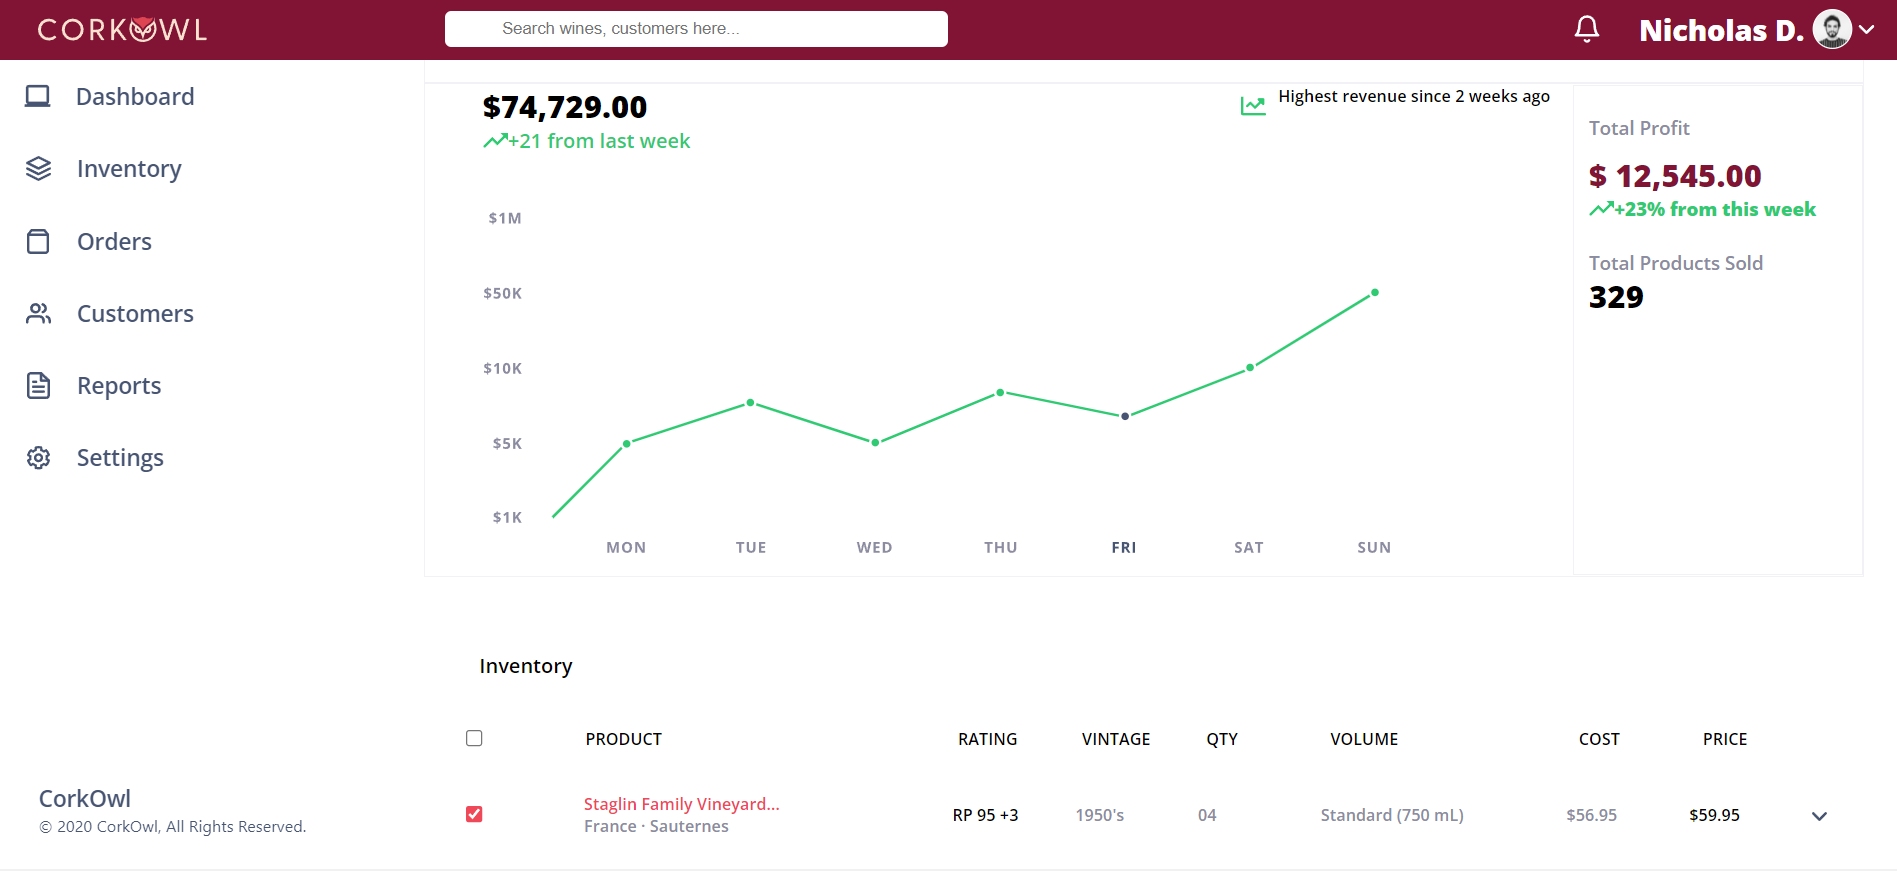
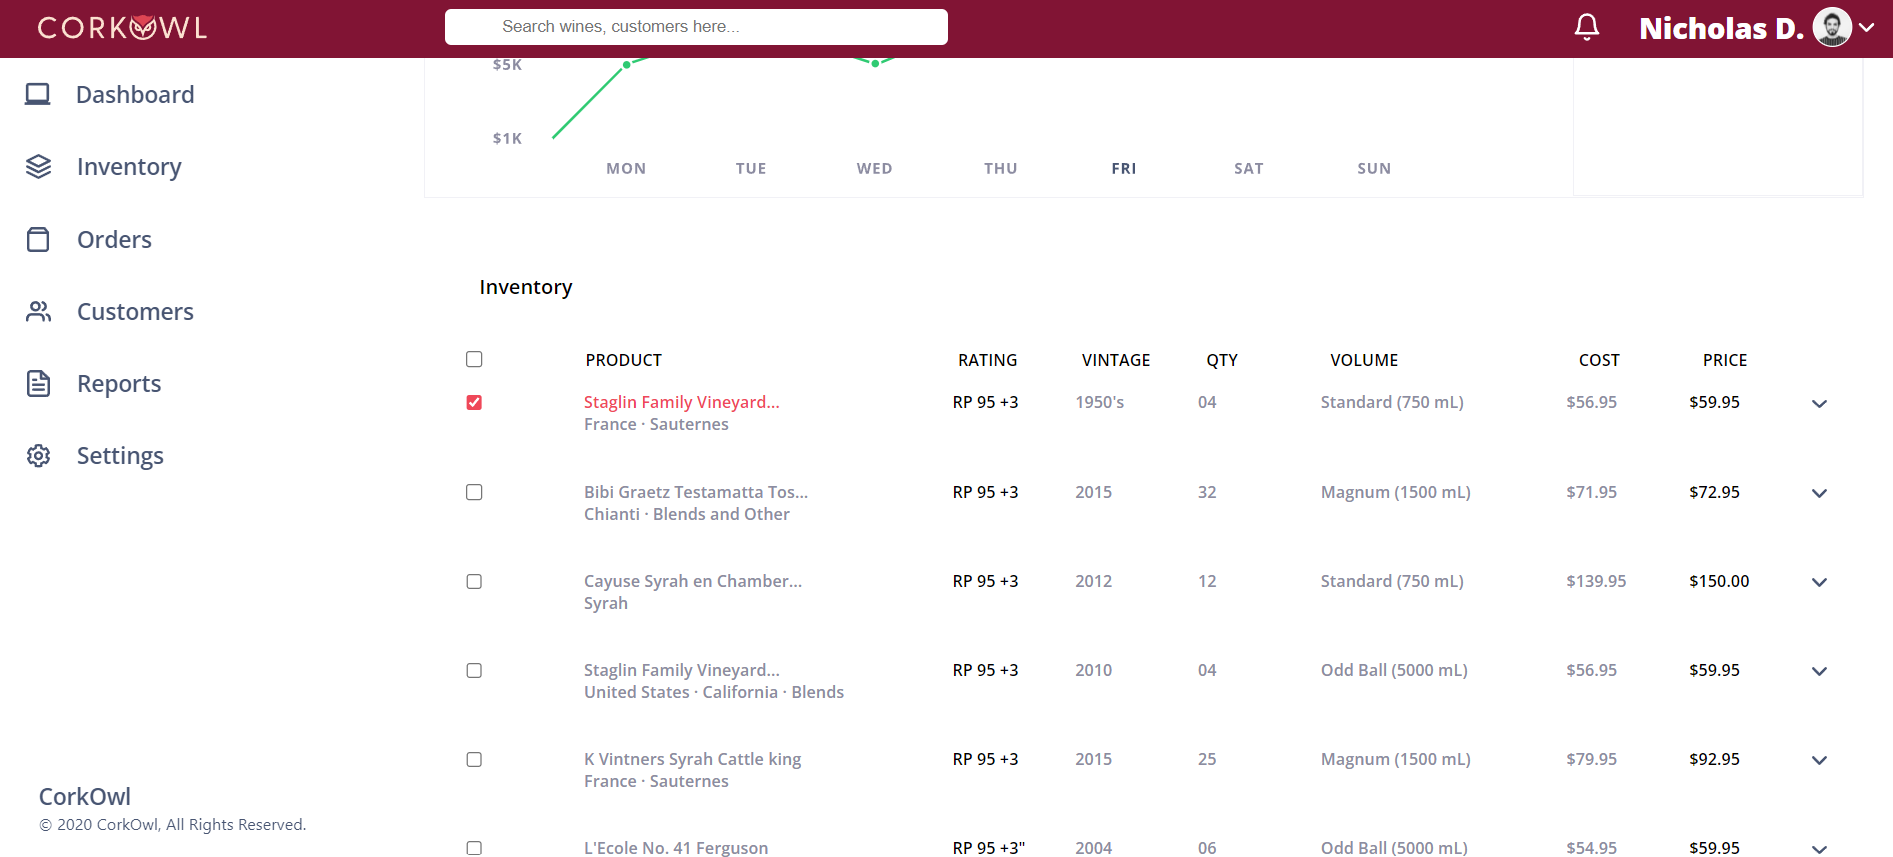
user data checkbox and expand updated

diff --git a/src/components/Home/Datamap.jsx b/src/components/Home/Datamap.jsx
@@ -1,41 +1,94 @@
-import React, { useState } from 'react'
-import "../Home/Home.scss"
+import React, { useState } from "react";
+import "../Home/Home.scss";
 
-import Data from "../Data"
-import downarrow from "../Assets/Svg/ddownarrow.svg"
+import Data from "../Data";
+import downarrow from "../Assets/Svg/ddownarrow.svg";
 
 const Datamap = () => {
+  const [expand1, setExpand1] = useState(null);
+  const [expand2, setExpand2] = useState(null);
+  const [expand3, setExpand3] = useState(null);
+  const [expand4, setExpand4] = useState(null);
+  const [expand5, setExpand5] = useState(null);
+  const [expand6, setExpand6] = useState(null);
+  const [expand7, setExpand7] = useState(null);
+  const [color1, setColor1] = useState(null);
+  const [color2, setColor2] = useState(null);
+  const [color3, setColor3] = useState(null);
+  const [color4, setColor4] = useState(null);
+  const [color5, setColor5] = useState(null);
+  const [color6, setColor6] = useState(null);
+  const [color7, setColor7] = useState(null);
 
-    const [expand, setExpand] = useState(null)
-    const [color, setColor] = useState(null)
+  const handleExpand1 = (el) => {
+    console.log(el);
+    setExpand1(!expand1);
+  };
+  const handleExpand2 = (el) => {
+    console.log(el);
+    setExpand2(!expand2);
+  };
+  const handleExpand3 = (el) => {
+    console.log(el);
+    setExpand3(!expand3);
+  };
+  const handleExpand4 = (el) => {
+    console.log(el);
+    setExpand4(!expand4);
+  };
+  const handleExpand5 = (el) => {
+    console.log(el);
+    setExpand5(!expand5);
+  };
+  const handleExpand6 = (el) => {
+    console.log(el);
+    setExpand6(!expand6);
+  };
+  const handleExpand7 = (el) => {
+    console.log(el);
+    setExpand7(!expand7);
+  };
 
-    const handleExpand = (el)=>{
-        console.log(el)
-        if(el.id === "1"){
-            setExpand(!expand)
-        }
-    }
-
-    const handleCheck = ()=>{
-        setColor(!color)
-    }
+  const handleCheck1 = () => {
+    setColor1(!color1);
+  };
+  const handleCheck2 = () => {
+    setColor2(!color2);
+  };
+  const handleCheck3 = () => {
+    setColor3(!color3);
+  };
+  const handleCheck4 = () => {
+    setColor4(!color4);
+  };
+  const handleCheck5 = () => {
+    setColor5(!color5);
+  };
+  const handleCheck6 = () => {
+    setColor6(!color6);
+  };
+  const handleCheck7 = () => {
+    setColor7(!color7);
+  };
 
   return (
-    <div className='data'>
-        <div className='inven'>Inventory</div>
-        <div className='table-map'>
-            <div className='title'>
-                <div><input type="checkbox" /></div>
-                <div>PRODUCT</div>
-                <div>RATING</div>
-                <div>VINTAGE</div>
-                <div>QTY</div>
-                <div>VOLUME</div>
-                <div>COST</div>
-                <div>PRICE</div>
-                <div></div>
-            </div>
-            {
+    <div className="data">
+      <div className="inven">Inventory</div>
+      <div className="table-map">
+        <div className="title">
+          <div>
+            <input type="checkbox" />
+          </div>
+          <div>PRODUCT</div>
+          <div>RATING</div>
+          <div>VINTAGE</div>
+          <div>QTY</div>
+          <div>VOLUME</div>
+          <div>COST</div>
+          <div>PRICE</div>
+          <div></div>
+        </div>
+        {/* {
                 Data.map((el)=>{
                     return(
                         <div className="title-data" style={{height : expand ? "30vh" : "10vh"}}>
@@ -56,10 +109,228 @@ const Datamap = () => {
                         </div>
                     )
                 })
-            }
-        </div>
-    </div>
-  )
-}
+            } */}
 
-export default Datamap
+        <div
+          className="title-data"
+          style={{ height: expand1 ? "30vh" : "10vh",}}
+        >
+          <div>
+            <input type="checkbox" onClick={handleCheck1} />
+          </div>
+          <div>
+            <div style={{ color: color1 ? "#EF4859" : "#8C8CA1" }}>
+              Staglin Family Vineyard...
+            </div>
+            <div>France · Sauternes </div>
+          </div>
+          <div>RP 95 +3</div>
+          <div>1950's</div>
+          <div>04</div>
+          <div>Standard (750 mL)</div>
+          <div>$56.95</div>
+          <div>$59.95</div>
+          <div>
+            <img
+              style={{ cursor: "pointer" }}
+              src={downarrow}
+              alt=""
+              onClick={handleExpand1}
+            />
+          </div>
+        </div>
+
+        <div
+          className="title-data"
+          style={{ height: expand2 ? "30vh" : "10vh" }}
+        >
+          <div>
+            <input type="checkbox" onClick={handleCheck2} />
+          </div>
+          <div>
+            <div style={{ color: color2 ? "#EF4859" : "#8C8CA1" }}>
+            Bibi Graetz Testamatta Tos...
+            </div>
+            <div>Chianti · Blends and Other</div>
+          </div>
+          <div>RP 95 +3</div>
+          <div>2015</div>
+          <div>32</div>
+          <div>Magnum (1500 mL)</div>
+          <div>$71.95</div>
+          <div>$72.95</div>
+          <div>
+            <img
+              style={{ cursor: "pointer" }}
+              src={downarrow}
+              alt=""
+              onClick={() => {
+                handleExpand2();
+              }}
+            />
+          </div>
+        </div>
+
+        <div
+          className="title-data"
+          style={{ height: expand3 ? "30vh" : "10vh" }}
+        >
+          <div>
+            <input type="checkbox" onClick={handleCheck3} />
+          </div>
+          <div>
+            <div style={{ color: color3 ? "#EF4859" : "#8C8CA1" }}>
+            Cayuse Syrah en Chamber...
+            </div>
+            <div>Syrah</div>
+          </div>
+          <div>RP 95 +3</div>
+          <div>2012</div>
+          <div>12</div>
+          <div>Standard (750 mL)</div>
+          <div>$139.95</div>
+          <div>$150.00</div>
+          <div>
+            <img
+              style={{ cursor: "pointer" }}
+              src={downarrow}
+              alt=""
+              onClick={() => {
+                handleExpand3();
+              }}
+            />
+          </div>
+        </div>
+
+        <div
+          className="title-data"
+          style={{ height: expand4 ? "30vh" : "10vh" }}
+        >
+          <div>
+            <input type="checkbox" onClick={handleCheck4} />
+          </div>
+          <div>
+            <div style={{ color: color4 ? "#EF4859" : "#8C8CA1" }}>
+            Staglin Family Vineyard...
+            </div>
+            <div>United States · California · Blends</div>
+          </div>
+          <div>RP 95 +3</div>
+          <div>2010</div>
+          <div>04</div>
+          <div>Odd Ball (5000 mL)</div>
+          <div>$56.95</div>
+          <div>$59.95</div>
+          <div>
+            <img
+              style={{ cursor: "pointer" }}
+              src={downarrow}
+              alt=""
+              onClick={() => {
+                handleExpand4();
+              }}
+            />
+          </div>
+        </div>
+
+        <div
+          className="title-data"
+          style={{ height: expand5 ? "30vh" : "10vh" }}
+        >
+          <div>
+            <input type="checkbox" onClick={handleCheck5} />
+          </div>
+          <div>
+            <div style={{ color: color5 ? "#EF4859" : "#8C8CA1" }}>
+            K Vintners Syrah Cattle king
+            </div>
+            <div>France · Sauternes</div>
+          </div>
+          <div>RP 95 +3</div>
+          <div>2015</div>
+          <div>25</div>
+          <div>Magnum (1500 mL)</div>
+          <div>$79.95</div>
+          <div>$92.95</div>
+          <div>
+            <img
+              style={{ cursor: "pointer" }}
+              src={downarrow}
+              alt=""
+              onClick={() => {
+                handleExpand5();
+              }}
+            />
+          </div>
+        </div>
+
+        <div
+          className="title-data"
+          style={{ height: expand6 ? "30vh" : "10vh" }}
+        >
+          <div>
+            <input type="checkbox" onClick={handleCheck6} />
+          </div>
+          <div>
+            <div style={{ color: color6 ? "#EF4859" : "#8C8CA1" }}>
+            L'Ecole No. 41 Ferguson
+            </div>
+            <div>United state · Celifornia · Blends</div>
+          </div>
+          <div>RP 95 +3"</div>
+          <div>2004</div>
+          <div>06</div>
+          <div>Odd Ball (5000 mL)</div>
+          <div>$54.95</div>
+          <div>$59.95</div>
+          <div>
+            <img
+              style={{ cursor: "pointer" }}
+              src={downarrow}
+              alt=""
+              onClick={() => {
+                handleExpand6();
+              }}
+            />
+          </div>
+        </div>
+
+        <div
+          className="title-data"
+          style={{ height: expand7 ? "30vh" : "10vh" }}
+        >
+          <div>
+            <input type="checkbox" onClick={handleCheck7} />
+          </div>
+          <div>
+            <div style={{ color: color7 ? "#EF4859" : "#8C8CA1" }}>
+            Staglin Family Vineyard...
+            </div>
+            <div>France · Sauternes</div>
+          </div>
+          <div>RP 95 +3</div>
+          <div>1950's</div>
+          <div>22</div>
+          <div>Regular (750 mL)</div>
+          <div>$56.95</div>
+          <div>$59.95</div>
+          <div>
+            <img
+              style={{ cursor: "pointer" }}
+              src={downarrow}
+              alt=""
+              onClick={() => {
+                handleExpand7();
+              }}
+            />
+          </div>
+        </div>
+
+
+
+      </div>
+    </div>
+  );
+};
+
+export default Datamap;

diff --git a/src/components/Home/Home.scss b/src/components/Home/Home.scss
@@ -338,8 +338,10 @@
     color: #000000;
     display: flex;
     justify-content: center;
-    align-items: center;
+    // align-items: center;
     // border: 1px solid red;
+    // box-shadow: rgba(0, 0, 0, 0.1) 0px 0px 5px 0px, rgba(0, 0, 0, 0.1) 0px 0px 1px 0px;
+    border-radius: 5px;
     height: 15vh;
     font-family: 'Open Sans', sans-serif;
 }
